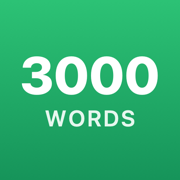
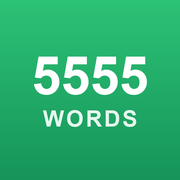
SEO, неделя 1: посадочная страница, Open Graph, JSON-LD, robots.txt, sitemap.xml, новая иконка 5555, статистика GoAccess; sw: отдельные страницы не подменяются приложением

Changed region(s): [[0.1111, 0.3056, 0.8889, 0.5278], [0.2222, 0.6111, 0.7778, 0.7222]]

diff --git a/o-prilozhenii.html b/o-prilozhenii.html
@@ -1,0 +1,144 @@
+<!DOCTYPE html>
+<html lang="ru">
+<head>
+<meta charset="utf-8">
+<meta name="viewport" content="width=device-width, initial-scale=1, viewport-fit=cover">
+<title>5555 слов — бесплатный тренажёр английских слов: 3000 самых частотных слов с транскрипцией</title>
+<meta name="description" content="Бесплатное приложение, чтобы выучить самые употребительные английские слова: 3000 базовых и 2620 для продвинутых (IELTS, TOEFL). Транскрипция, произношение, примеры, 6 этапов запоминания, интервальное повторение. Без регистрации, работает офлайн.">
+<link rel="canonical" href="https://5555words.com/o-prilozhenii.html">
+<meta property="og:type" content="website">
+<meta property="og:site_name" content="5555 слов">
+<meta property="og:locale" content="ru_RU">
+<meta property="og:url" content="https://5555words.com/o-prilozhenii.html">
+<meta property="og:title" content="5555 слов — бесплатный тренажёр английских слов">
+<meta property="og:description" content="3000 самых частотных английских слов и 2620 для продвинутых. Транскрипция, звук, 6 этапов запоминания. Без регистрации, офлайн.">
+<meta property="og:image" content="https://5555words.com/icons/og-image.png">
+<meta property="og:image:width" content="1200">
+<meta property="og:image:height" content="630">
+<meta name="twitter:card" content="summary_large_image">
+<link rel="icon" href="icons/icon.svg" type="image/svg+xml">
+<link rel="apple-touch-icon" href="icons/apple-touch-icon.png">
+<link rel="stylesheet" href="fonts/fonts.css">
+<script type="application/ld+json">
+{
+  "@context": "https://schema.org",
+  "@graph": [
+    {
+      "@type": "WebApplication",
+      "name": "5555 слов",
+      "url": "https://5555words.com/",
+      "description": "Бесплатный тренажёр английских слов: 3000 самых частотных слов и 2620 для продвинутых, включая лексику IELTS и TOEFL.",
+      "applicationCategory": "EducationalApplication",
+      "operatingSystem": "iOS, Android, macOS, Windows (браузер)",
+      "inLanguage": "ru",
+      "isAccessibleForFree": true,
+      "offers": { "@type": "Offer", "price": "0", "priceCurrency": "KZT" },
+      "image": "https://5555words.com/icons/og-image.png"
+    },
+    {
+      "@type": "FAQPage",
+      "mainEntity": [
+        { "@type": "Question", "name": "Это правда бесплатно?", "acceptedAnswer": { "@type": "Answer", "text": "Да. Все уроки, тесты и курс для продвинутых бесплатны, без рекламы и без подписки." } },
+        { "@type": "Question", "name": "Нужна ли регистрация?", "acceptedAnswer": { "@type": "Answer", "text": "Нет. Приложение открывается и работает сразу, прогресс хранится на вашем устройстве." } },
+        { "@type": "Question", "name": "Почему именно 3000 слов?", "acceptedAnswer": { "@type": "Answer", "text": "Около 3000 самых частотных слов покрывают подавляющую часть повседневных английских текстов и речи. Слова упорядочены по частоте в современном английском: сначала самые нужные." } },
+        { "@type": "Question", "name": "Подходит ли приложение для подготовки к IELTS и TOEFL?", "acceptedAnswer": { "@type": "Answer", "text": "Да, для словарного запаса. В словарь включены все слова списков NGSL и NAWL — базовой и академической лексики, которую используют при подготовке к IELTS и TOEFL." } },
+        { "@type": "Question", "name": "Работает ли без интернета?", "acceptedAnswer": { "@type": "Answer", "text": "Да. После первого открытия приложение работает офлайн. Его можно добавить на экран «Домой» на iPhone, iPad, Android и Mac." } },
+        { "@type": "Question", "name": "С какого урока начать, если я уже знаю английский?", "acceptedAnswer": { "@type": "Answer", "text": "При первом запуске выберите свой уровень от A1 до C2 — короткий тестовый урок подскажет, с какого урока начать, чтобы не повторять знакомые слова." } }
+      ]
+    }
+  ]
+}
+</script>
+<style>
+  :root { --bg: #ececec; --card: #fff; --text: #111; --muted: #5a5a5a; --title: #2c6a8c; --lime: #a3d04a; --lime-dark: #8dbb35; --teal: #3fc9b6; --line: #e3e3e3; }
+  @media (prefers-color-scheme: dark) { :root { --bg: #151515; --card: #222; --text: #eee; --muted: #aaa; --title: #8ec5e8; --line: #333; } }
+  * { box-sizing: border-box; }
+  body { margin: 0; background: var(--bg); color: var(--text); font: 18px/1.5 "Roboto Condensed", "Arial Narrow", -apple-system, sans-serif; }
+  main { max-width: 760px; margin: 0 auto; padding: 20px 16px 48px; }
+  header { text-align: center; padding: 24px 0 8px; }
+  header img { width: 88px; height: 88px; border-radius: 20px; }
+  h1 { color: var(--title); font-size: clamp(30px, 8vw, 44px); line-height: 1.1; margin: 14px 0 6px; }
+  .lead { font-size: 20px; color: var(--muted); margin: 0 auto 18px; max-width: 560px; }
+  .cta { display: inline-block; background: var(--lime); color: #fff; text-decoration: none; font-size: 22px; font-weight: 700; padding: 14px 32px; border-radius: 14px; }
+  .cta:hover { background: var(--lime-dark); }
+  .note { font-size: 15px; color: var(--muted); margin-top: 8px; }
+  section { background: var(--card); border-radius: 16px; padding: 18px 20px; margin-top: 16px; }
+  h2 { color: var(--title); font-size: 24px; margin: 0 0 10px; }
+  ul, ol { padding-left: 22px; margin: 0; } li { margin: 6px 0; }
+  .grid { display: grid; grid-template-columns: repeat(auto-fit, minmax(200px, 1fr)); gap: 12px; }
+  .grid div { border: 1px solid var(--line); border-radius: 12px; padding: 12px 14px; }
+  .grid b { display: block; color: var(--title); font-size: 19px; }
+  details { border-top: 1px solid var(--line); padding: 10px 0; } details:first-of-type { border-top: 0; }
+  summary { cursor: pointer; font-weight: 700; }
+  footer { text-align: center; color: var(--muted); font-size: 14px; margin-top: 24px; }
+  a { color: var(--title); }
+</style>
+</head>
+<body>
+<main>
+  <header>
+    <img src="icons/icon-192.png" alt="5555 слов" width="88" height="88">
+    <h1>5555 слов — бесплатный тренажёр английских слов</h1>
+    <p class="lead">Выучите самые употребительные английские слова: 3000 базовых и ещё 2620 для продвинутых. С транскрипцией, произношением и примерами.</p>
+    <a class="cta" href="./">Начать бесплатно</a>
+    <p class="note">Без регистрации · без рекламы · работает офлайн</p>
+  </header>
+
+  <section>
+    <h2>Почему частотные слова</h2>
+    <p>Около 3000 самых частых слов покрывают подавляющую часть того, что вы читаете и слышите по-английски. Поэтому слова в приложении идут по частоте в современном английском — сначала самые нужные, а не случайный список по темам. Частота посчитана по большим корпусам текстов и субтитров (wordfreq, SUBTLEX-US).</p>
+  </section>
+
+  <section>
+    <h2>Как проходит урок</h2>
+    <p>Урок — 10 слов и 6 этапов, каждый тренирует слово по-своему:</p>
+    <ol>
+      <li><b>Изучение</b> — слово, транскрипция, произношение, перевод и пример фразы.</li>
+      <li><b>Запоминание</b> — выбрать правильный перевод из похожих по смыслу вариантов.</li>
+      <li><b>Повторение</b> — соединить английские слова с переводами.</li>
+      <li><b>Аудирование</b> — услышать слово и собрать его из букв.</li>
+      <li><b>Написание</b> — собрать слово по переводу.</li>
+      <li><b>Закрепление</b> — написать слово на клавиатуре без подсказки из букв.</li>
+    </ol>
+    <p>Через сутки урок нужно повторить — так слова переходят в долговременную память. Каждые 4 урока — мини-тест на скорость и точность.</p>
+  </section>
+
+  <section>
+    <h2>Что внутри</h2>
+    <div class="grid">
+      <div><b>3000 базовых слов</b>300 уроков самой нужной лексики</div>
+      <div><b>+2620 для продвинутых</b>включая всю лексику списков NGSL и NAWL для IELTS и TOEFL</div>
+      <div><b>Тест уровня</b>от A1 до C2 — начните со своего урока, не повторяя знакомое</div>
+      <div><b>Транскрипция и звук</b>американское произношение каждого слова</div>
+      <div><b>Лиги и уровни</b>от Меди до Грандмастера — видно, как растёт словарный запас</div>
+      <div><b>Офлайн</b>после первого открытия работает без интернета</div>
+    </div>
+  </section>
+
+  <section>
+    <h2>Как установить на телефон</h2>
+    <ul>
+      <li><b>iPhone и iPad:</b> откройте <a href="./">5555words.com</a> в Safari → «Поделиться» → «На экран „Домой“».</li>
+      <li><b>Android:</b> откройте сайт в Chrome → меню → «Установить приложение» или «Добавить на главный экран».</li>
+      <li><b>Mac и компьютер:</b> Safari → «Файл» → «Добавить в Dock», или Chrome → «Установить приложение».</li>
+    </ul>
+  </section>
+
+  <section>
+    <h2>Вопросы и ответы</h2>
+    <details><summary>Это правда бесплатно?</summary><p>Да. Все уроки, тесты и курс для продвинутых бесплатны, без рекламы и без подписки.</p></details>
+    <details><summary>Нужна ли регистрация?</summary><p>Нет. Приложение открывается и работает сразу, прогресс хранится на вашем устройстве.</p></details>
+    <details><summary>Почему именно 3000 слов?</summary><p>Около 3000 самых частотных слов покрывают подавляющую часть повседневных английских текстов и речи. Слова упорядочены по частоте в современном английском: сначала самые нужные.</p></details>
+    <details><summary>Подходит ли для подготовки к IELTS и TOEFL?</summary><p>Да, для словарного запаса. В словарь включены все слова списков NGSL и NAWL — базовой и академической лексики, которую используют при подготовке к IELTS и TOEFL.</p></details>
+    <details><summary>Работает ли без интернета?</summary><p>Да. После первого открытия приложение работает офлайн. Его можно добавить на экран «Домой» на iPhone, iPad, Android и Mac.</p></details>
+    <details><summary>С какого урока начать, если я уже знаю английский?</summary><p>При первом запуске выберите свой уровень от A1 до C2 — короткий тестовый урок подскажет, с какого урока начать, чтобы не повторять знакомые слова.</p></details>
+  </section>
+
+  <p style="text-align:center;margin-top:24px"><a class="cta" href="./">Начать учить слова</a></p>
+  <footer>
+    <p>Источники: частотность — wordfreq (CC BY-SA 4.0) и SUBTLEX-US; лексика IELTS / TOEFL — NGSL и NAWL (Browne, Culligan, Phillips; CC BY-SA 4.0); примеры — Tatoeba (CC BY 2.0 FR); транскрипции — CMUdict.</p>
+    <p><a href="privacy.html">Политика конфиденциальности</a></p>
+  </footer>
+</main>
+</body>
+</html>

diff --git a/index.html b/index.html
@@ -3,8 +3,20 @@
 <head>
 <meta charset="utf-8">
 <meta name="viewport" content="width=device-width, initial-scale=1, viewport-fit=cover, user-scalable=no">
-<title>5555 слов</title>
-<meta name="description" content="Самые частотные английские слова: 3000 базовых и ещё 2620 для продвинутых. Уроки по 10 слов, 6 этапов запоминания, повторение через 24 часа.">
+<title>5555 слов — выучить английские слова бесплатно</title>
+<meta name="description" content="Бесплатный тренажёр английских слов: 3000 самых частотных слов и 2620 для продвинутых (IELTS, TOEFL). Транскрипция, произношение, 6 этапов запоминания, повторение. Без регистрации, работает офлайн.">
+<link rel="canonical" href="https://5555words.com/">
+<meta property="og:type" content="website">
+<meta property="og:site_name" content="5555 слов">
+<meta property="og:locale" content="ru_RU">
+<meta property="og:url" content="https://5555words.com/">
+<meta property="og:title" content="5555 слов — бесплатный тренажёр английских слов">
+<meta property="og:description" content="3000 самых частотных английских слов и 2620 для продвинутых. Транскрипция, звук, 6 этапов запоминания. Без регистрации, офлайн.">
+<meta property="og:image" content="https://5555words.com/icons/og-image.png">
+<meta property="og:image:width" content="1200">
+<meta property="og:image:height" content="630">
+<meta name="twitter:card" content="summary_large_image">
+<script type="application/ld+json">{"@context":"https://schema.org","@type":"WebApplication","name":"5555 слов","url":"https://5555words.com/","description":"Бесплатный тренажёр английских слов: 3000 самых частотных слов и 2620 для продвинутых, включая лексику IELTS и TOEFL.","applicationCategory":"EducationalApplication","operatingSystem":"iOS, Android, macOS, Windows (браузер)","inLanguage":"ru","isAccessibleForFree":true,"offers":{"@type":"Offer","price":"0","priceCurrency":"KZT"},"image":"https://5555words.com/icons/og-image.png"}</script>
 <meta name="theme-color" content="#ffffff">
 <meta name="apple-mobile-web-app-capable" content="yes">
 <meta name="mobile-web-app-capable" content="yes">
@@ -14,14 +26,18 @@
 <link rel="manifest" href="manifest.webmanifest">
 <link rel="icon" href="icons/icon.svg" type="image/svg+xml">
 <link rel="apple-touch-icon" href="icons/apple-touch-icon.png">
-<link rel="stylesheet" href="fonts/fonts.css?v=83">
-<link rel="stylesheet" href="styles.css?v=83">
+<link rel="stylesheet" href="fonts/fonts.css?v=84">
+<link rel="stylesheet" href="styles.css?v=84">
 </head>
 <body>
 <div id="app"><div class="splash"><b>5555 слов</b><span>Загрузка…</span></div></div>
+<noscript><div style="max-width:640px;margin:24px auto;padding:0 16px;font:18px/1.5 sans-serif">
+<h1>5555 слов — бесплатный тренажёр английских слов</h1>
+<p>Выучите 3000 самых употребительных английских слов и ещё 2620 для продвинутых (лексика IELTS и TOEFL): транскрипция, произношение, примеры, 6 этапов запоминания и повторение. Без регистрации, работает офлайн.</p>
+<p>Для работы приложения включите JavaScript. <a href="o-prilozhenii.html">Подробнее о приложении</a>.</p></div></noscript>
 <div id="toast" class="toast" role="status" aria-live="polite"></div>
-<script src="words.js?v=83"></script>
-<script src="app.js?v=83"></script>
-<script src="sync.js?v=83"></script>
+<script src="words.js?v=84"></script>
+<script src="app.js?v=84"></script>
+<script src="sync.js?v=84"></script>
 </body>
 </html>

diff --git a/app.js b/app.js
@@ -1323,7 +1323,7 @@ function renderOnb(app) {
       <p class="onb-sub onb-or">Уже знаете английский? Выберите уровень и где вы в нём: <b>−</b> ниже среднего, без знака — средний, <b>+</b> выше среднего. Затем короткий тестовый урок уточнит, с какого урока начать.</p>
       <div class="lvls">${CEFR.map(([c, name, text]) => `<div class="lvl"><div class="lvl-info"><b>${c}</b> <span>${name}</span><div>${text}</div></div>
         <div class="lvl-btns"><button class="lvl-b" data-self="${c}-">${c}−<small>ниже среднего</small></button><button class="lvl-b mid" data-self="${c}">${c}<small>средний</small></button><button class="lvl-b" data-self="${c}+">${c}+<small>выше среднего</small></button></div></div>`).join('')}</div>
-      ${back}</div>`;
+      ${back}<p class="sub" style="margin:18px 0 6px"><a href="o-prilozhenii.html">Что это за приложение и как оно работает</a></p></div>`;
   } else if (onb.step === 'intro') {
     const lo = placeLo(onb.self);
     app.innerHTML = `<div class="onb">${brand}
@@ -1558,6 +1558,7 @@ function openProfile() {
     <div class="prow"><div class="l">Скорость речи<div id="ratev">${S.set.rate.toFixed(2)}×</div></div><input type="range" min="0.5" max="1.2" step="0.05" value="${S.set.rate}" id="rate"></div>
     <h3>О приложении</h3>
     <div class="prow"><div class="l">Версия ${APP_V}<div>${appDiag()}</div></div></div>
+    <p class="sub" style="text-align:left"><a href="o-prilozhenii.html">Подробнее о приложении</a> · <a href="privacy.html">Политика конфиденциальности</a></p>
     <p class="sub" style="text-align:left">Словарь: частотность — wordfreq (CC BY-SA 4.0) и SUBTLEX-US; лексика TOEFL / IELTS — NGSL и NAWL (Browne, Culligan, Phillips; CC BY-SA 4.0); примеры фраз — Tatoeba (CC BY 2.0 FR); транскрипции — CMUdict.</p>
     <h3>Данные</h3>
     <p class="sub" style="text-align:left">Прогресс хранится на этом устройстве. Чтобы перенести его на другой iPhone, iPad или Mac, сохраните файл и загрузите его там.</p>

diff --git a/privacy.html b/privacy.html
@@ -37,7 +37,9 @@
     <li><b>Прогресс обучения</b>: пройденные уроки и тесты, выученные слова и ошибки, «Мои слова», имя и аватар профиля, дни занятий, результат определения уровня.</li>
     <li><b>Сведения об устройствах</b>, с которых выполнен вход: название (например, «iPhone · Safari»), дата входа и последней синхронизации.</li>
   </ul>
-  <p>Пароли мы не храним — вход выполняется по одноразовому коду из письма. Мы не собираем имя и фамилию, телефон, геолокацию, не используем рекламные и аналитические счётчики.</p>
+  <p>Пароли мы не храним — вход выполняется по одноразовому коду из письма. Мы не собираем имя и фамилию, телефон, геолокацию, не используем cookies, рекламные и сторонние аналитические счётчики.</p>
+  <h2>Технические журналы сервера</h2>
+  <p>Как и любой веб-сервер, наш сервер записывает в журнал технические сведения о запросах: IP-адрес, время, открытую страницу и тип браузера. Журналы хранятся 14 дней и используются только для защиты от атак и обезличенной статистики посещаемости (в отчётах IP-адреса скрыты). Они не связываются с аккаунтами и никому не передаются.</p>
 
   <h2>Зачем</h2>
   <p>Только чтобы вы могли войти и продолжить занятия на другом устройстве с тем же прогрессом. Мы не отправляем рекламные рассылки; письма приходят только с кодом входа по вашему запросу.</p>

diff --git a/sw.js b/sw.js
@@ -3,7 +3,7 @@
 // Обновление: браузер сам проверяет sw.js при каждом открытии; если VERSION изменился, новая версия целиком
 // скачивается в фоне (все файлы из FILES) и включается при следующем открытии — старая и новая версии не смешиваются.
 // При выпуске новой версии: увеличить V здесь и ?v= в index.html (у styles.css, fonts.css, words.js, app.js).
-const V = 83;
+const V = 84;
 const VERSION = 'w3000-v' + V;
 const FILES = [
   './', 'index.html', `styles.css?v=${V}`, `words.js?v=${V}`, `app.js?v=${V}`, `sync.js?v=${V}`, 'privacy.html', `fonts/fonts.css?v=${V}`,
@@ -26,9 +26,11 @@ self.addEventListener('fetch', e => {
   const req = e.request;
   const url = new URL(req.url);
   if (req.method !== 'GET' || url.origin !== location.origin || url.pathname.startsWith('/api/')) return;   // API синхронизации — всегда из сети, не кэшируем
-  // открытие страницы (в том числе с параметрами в адресе) — всегда index.html из кэша
+  // открытие приложения (в том числе с параметрами в адресе) — всегда index.html из кэша;
+  // отдельные страницы (о приложении, политика, списки слов) — из сети, без сети — из кэша
   if (req.mode === 'navigate') {
-    e.respondWith(caches.match('index.html').then(r => r || fetch(req)));
+    if (/\/$|\/index\.html$/.test(url.pathname)) e.respondWith(caches.match('index.html').then(r => r || fetch(req)));
+    else e.respondWith(fetch(req).catch(() => caches.match(req, { ignoreSearch: true }).then(r => r || caches.match('index.html'))));
     return;
   }
   e.respondWith(caches.match(req).then(r => r || fetch(req).then(res => {
